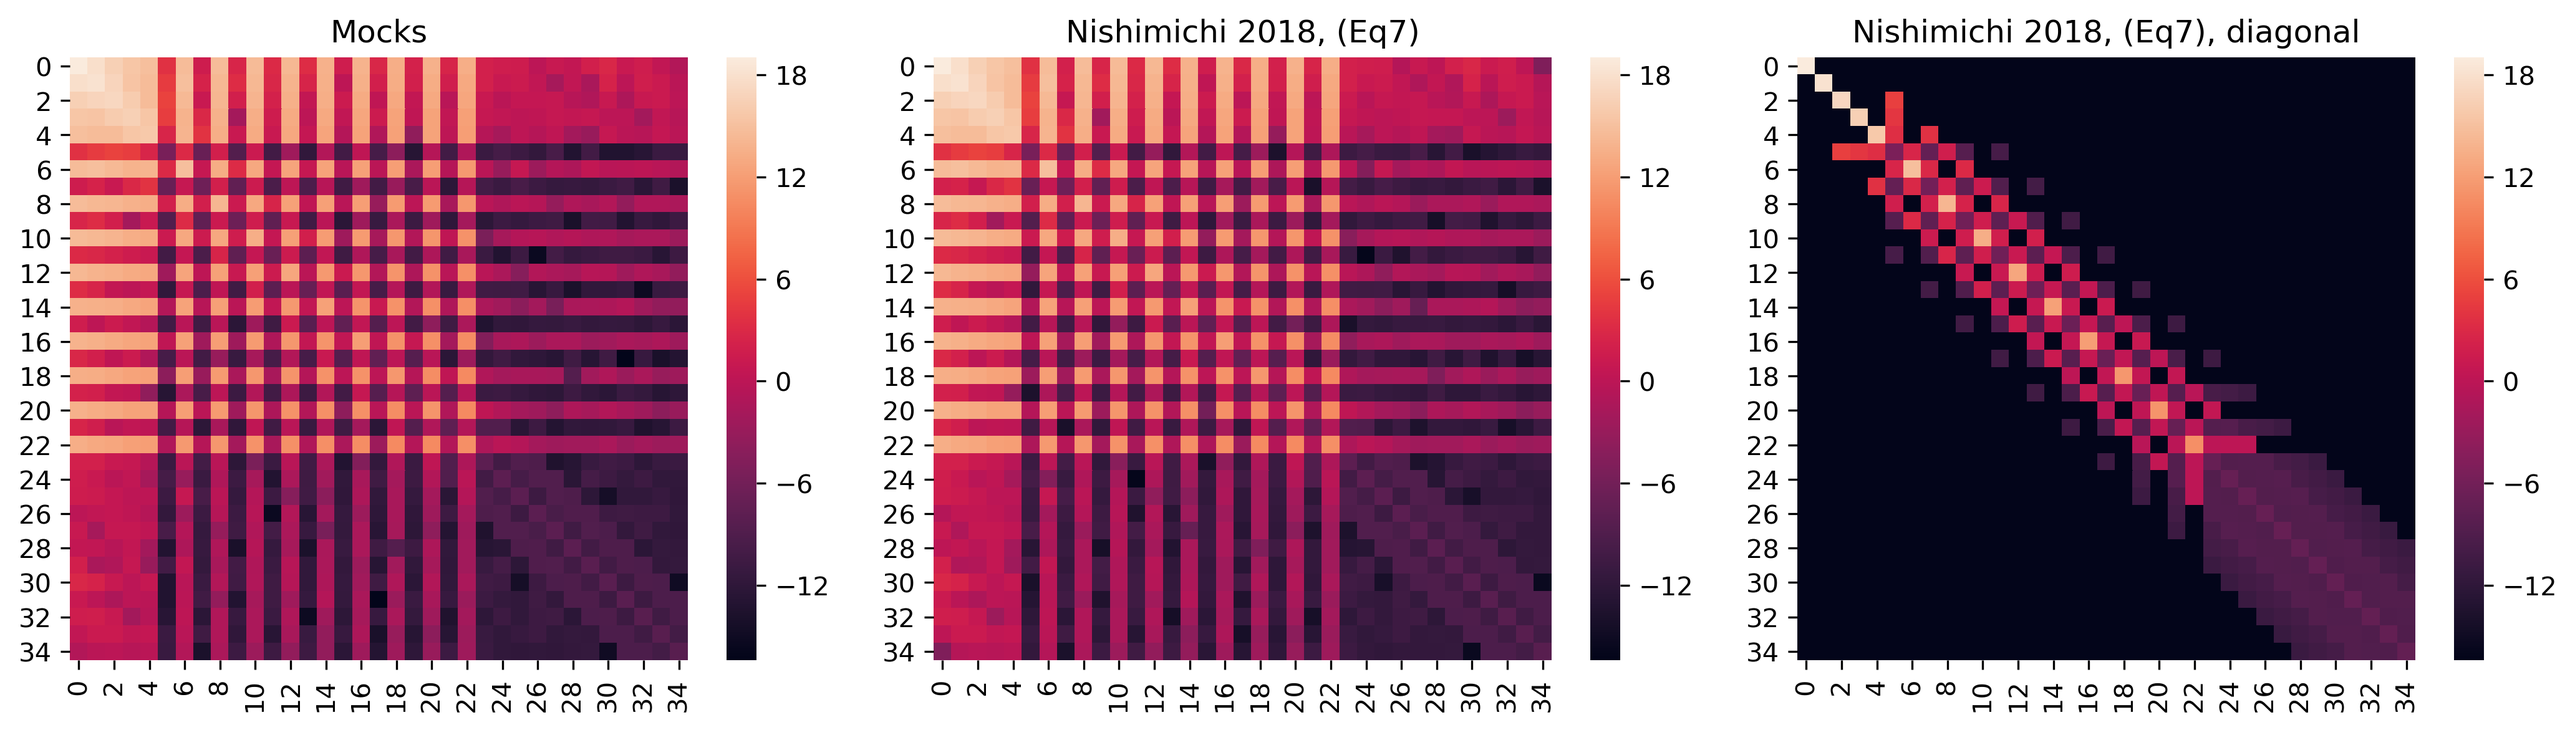
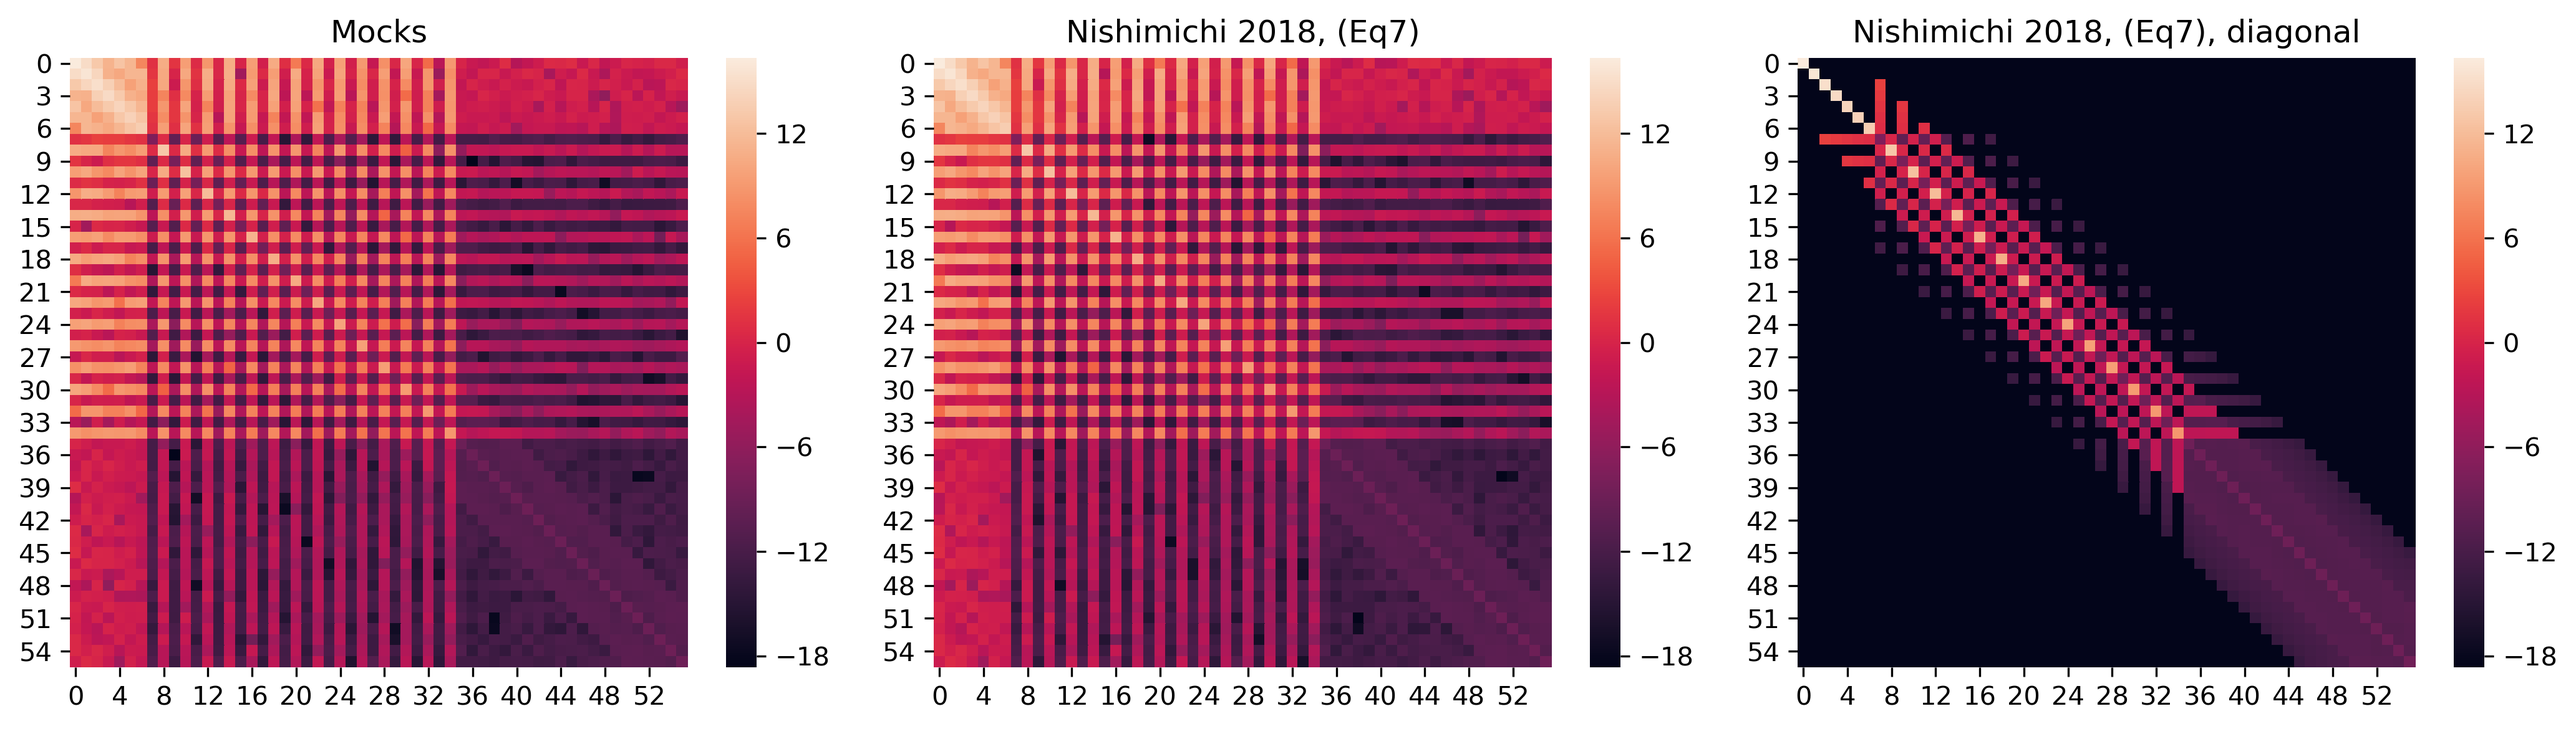
Fixing non-reorder issue in ndoa_covariance_investigation

diff --git a/config/noda_recon_covariance_investigation.py b/config/noda_recon_covariance_investigation.py
@@ -8,6 +8,7 @@ from barry.framework.postprocessing import BAOExtractor, PureBAOExtractor
 from barry.framework.cosmology.camb_generator import CambGenerator
 from barry.framework.samplers.ensemble import EnsembleSampler
 from barry.framework.fitter import Fitter
+import numpy as np
 
 if __name__ == "__main__":
     pfn, dir_name, file = setup(__file__)
@@ -40,16 +41,42 @@ if __name__ == "__main__":
     cov_original = datas[0].cov
     cov_noda = calc_cov_noda_mixed(pk_cov, denoms, ks, pk, k_range, is_extracted)
     cov_noda_diag = calc_cov_noda_mixed(pk_cov_diag, denoms, ks, pk, k_range, is_extracted)
-    import numpy as np
+
+    # trim covariance to the same shape as the data
     mask = (ks >= mink) & (ks <= maxk)
     mask2d = mask[np.newaxis, :] & mask[:, np.newaxis]
+    cov_noda = cov_noda[mask2d].reshape((mask.sum(), mask.sum()))
+    cov_noda_diag = cov_noda_diag[mask2d].reshape((mask.sum(), mask.sum()))
+
+    # redorder cov matrix, pk goes first, then the extracted part
+    mask_extracted = postprocess.get_is_extracted(datas[0].ks)
+    index_sort = np.arange(mask_extracted.size).astype(np.int) + (1000 * mask_extracted)
+    a = np.argsort(index_sort)
+    cov_noda = cov_noda[:, a]
+    cov_noda = cov_noda[a, :]
+    cov_noda_diag = cov_noda_diag[:, a]
+    cov_noda_diag = cov_noda_diag[a, :]
+
+    # import matplotlib.pyplot as plt
+    # import seaborn as sb
+    # fig, axes = plt.subplots(ncols=3, figsize=(14, 4))
+    # axes[0].set_title("Mocks")
+    # axes[1].set_title("Nishimichi 2018, (Eq7)")
+    # axes[2].set_title("Nishimichi 2018, (Eq7), diagonal")
+    # # axes[3].set_title("norm diff first two, capped at unity")
+    # sb.heatmap(np.log(np.abs(datas[0].get_data()[0]["cov"])), ax=axes[0])
+    # sb.heatmap(np.log(np.abs(cov_noda)), ax=axes[1])
+    # sb.heatmap(np.log(np.abs(cov_noda_diag) + np.abs(datas[0].get_data()[0]["cov"]).min()), ax=axes[2])
+    # # sb.heatmap(la_cov_noda_diag, ax=axes[2])
+    # # sb.heatmap((cov_brute - cov_noda_diag) / cov_brute, ax=axes[3], vmin=-1, vmax=1)
+    # fig.subplots_adjust(hspace=0.0)
+    # plt.show()
+    # exit()
     # import seaborn as sb
     # sb.heatmap(mask2d.astype(np.int))
     # import matplotlib.pyplot as plt
     # plt.show()
 
-    cov_noda = cov_noda[mask2d].reshape((mask.sum(), mask.sum()))
-    cov_noda_diag = cov_noda_diag[mask2d].reshape((mask.sum(), mask.sum()))
 
     datas[1].set_cov(cov_noda)
     datas[2].set_cov(cov_noda_diag)

diff --git a/config/noda_range_upper_investigation.py b/config/noda_range_upper_investigation.py
@@ -53,11 +53,12 @@ if __name__ == "__main__":
         for posterior, weight, chain, model, data, extra in fitter.load():
             print(extra["name"])
             c.add_chain(chain, weights=weight, parameters=model.get_labels(), **extra)
-        c.configure(shade=True, bins=40, legend_artists=True, rainbow=True)
-        extents = {"$\\alpha$": (0.88, 1.18), "$A$": (0, 10), "$b$": (1.5, 1.8), r"$\gamma_{rec}$": (1, 8)}
+        c.configure(shade=True, bins=30, legend_artists=True, rainbow=True)
+        extents = None # {"$\\alpha$": (0.88, 1.18), "$A$": (0, 10), "$b$": (1.5, 1.8), r"$\gamma_{rec}$": (1, 8)}
+        params = ["$\\alpha$", "$A$", "$b$"]
         c.analysis.get_latex_table(filename=pfn + "_params.txt")
-        c.plotter.plot_summary(filename=pfn + "_summary.png", errorbar=True, truth={"$\\Omega_m$": 0.31, '$\\alpha$': 1.0}, extents=extents)
-        c.plotter.plot(filename=pfn + "_contour.png", truth={"$\\Omega_m$": 0.31, '$\\alpha$': 1.0}, extents=extents)
+        c.plotter.plot_summary(filename=pfn + "_summary.png", errorbar=True, truth={"$\\Omega_m$": 0.31, '$\\alpha$': 1.0}, extents=extents, parameters=params)
+        c.plotter.plot(filename=pfn + "_contour.png", truth={"$\\Omega_m$": 0.31, '$\\alpha$': 1.0}, extents=extents, parameters=params)
         # c.plotter.plot_walks(filename=pfn + "_walks.png", truth={"$\\Omega_m$": 0.3121, '$\\alpha$': 1.0},
         #                      extents=extents)
 

diff --git a/investigations/does_noda_cov_match_bruteforce_mixed.py b/investigations/does_noda_cov_match_bruteforce_mixed.py
@@ -61,11 +61,10 @@ if __name__ == "__main__":
     extractor = BAOExtractor(r_s, reorder=False)
     extractor2 = PureBAOExtractor(r_s)
 
-    step_size = 5
+    step_size = 1
     mink = 0.02
     maxk = 0.3
     data_raw = PowerSpectrum_SDSS_DR12_Z061_NGC(step_size=step_size, fake_diag=False, min_k=0.0, max_k=0.32)
-    data3 = PowerSpectrum_SDSS_DR12_Z061_NGC(step_size=step_size, fake_diag=True, min_k=mink, max_k=maxk)
     data2 = PowerSpectrum_SDSS_DR12_Z061_NGC(postprocess=extractor, step_size=step_size, min_k=mink, max_k=maxk)
 
     ks = data_raw.ks

diff --git a/investigations/does_noda_cov_match_bruteforce.py b/investigations/does_noda_cov_match_bruteforce.py
@@ -42,7 +42,7 @@ if __name__ == "__main__":
     extractor = PureBAOExtractor(r_s)
     mink = 0.02
 
-    step_size = 5
+    step_size = 1
     data_raw = PowerSpectrum_SDSS_DR12_Z061_NGC(step_size=step_size, min_k=0.0)
     data = PowerSpectrum_SDSS_DR12_Z061_NGC(step_size=step_size, min_k=mink)
     data2 = PowerSpectrum_SDSS_DR12_Z061_NGC(postprocess=extractor, step_size=step_size, min_k=mink)
